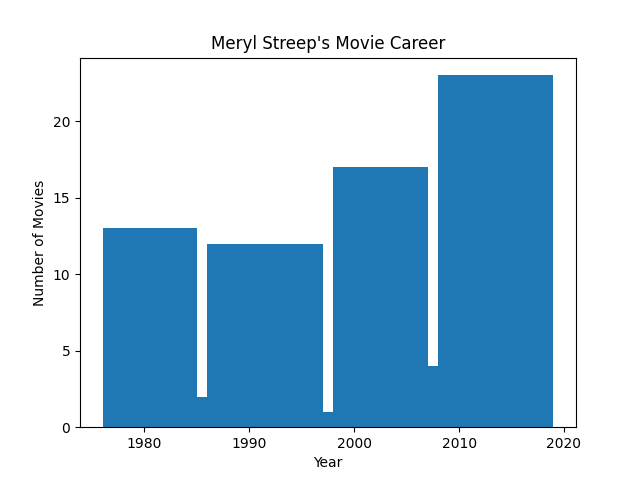
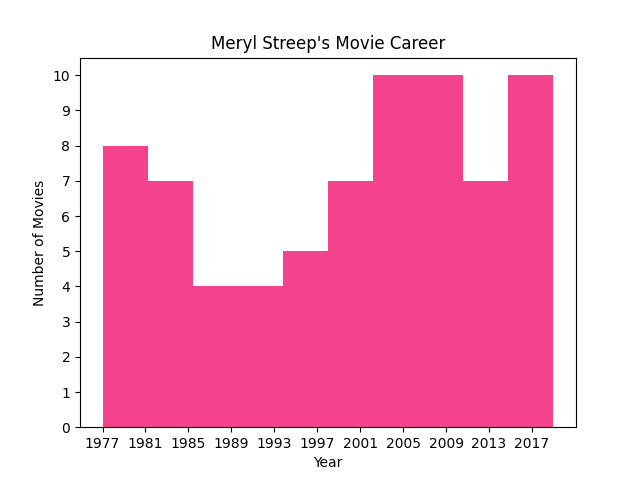
Improve histogram

diff --git a/creating-a-histogram/main.py b/creating-a-histogram/main.py
@@ -2,10 +2,12 @@ import matplotlib.pyplot as plt
 
 movie_year = [2019,2019,2018,2018,2017,2016,2016,2016,2015,2015,2014,2014,2014,2013,2012,2012,2011,2010,2010,2009,2009,2008,2008,2007,2007,2007,2007,2006,2006,2006,2006,2005,2004,2004,2003,2003,2003,2002,2002,2001,1999,1999,1998,1998,1997,1996,1996,1995,1994,1993,1992,1991,1990,1989,1988,1987,1986,1985,1985,1984,1983,1982,1982,1982,1981,1979,1979,1979,1978,1978,1977,1977]
 
-bins =[1976,1985, 1986,1997, 1998,2007, 2008,2019]
+bins = 10
 
-plt.hist(movie_year, bins, histtype="bar")
+plt.hist(movie_year, bins, histtype="bar", color="#f5428d")
 plt.xlabel("Year")
 plt.ylabel("Number of Movies")
+plt.xticks(range(1977, 2021, 4))
+plt.yticks(range(0, 11, 1))
 plt.title("Meryl Streep's Movie Career")
 plt.savefig("meryl-streep-movies.png")
